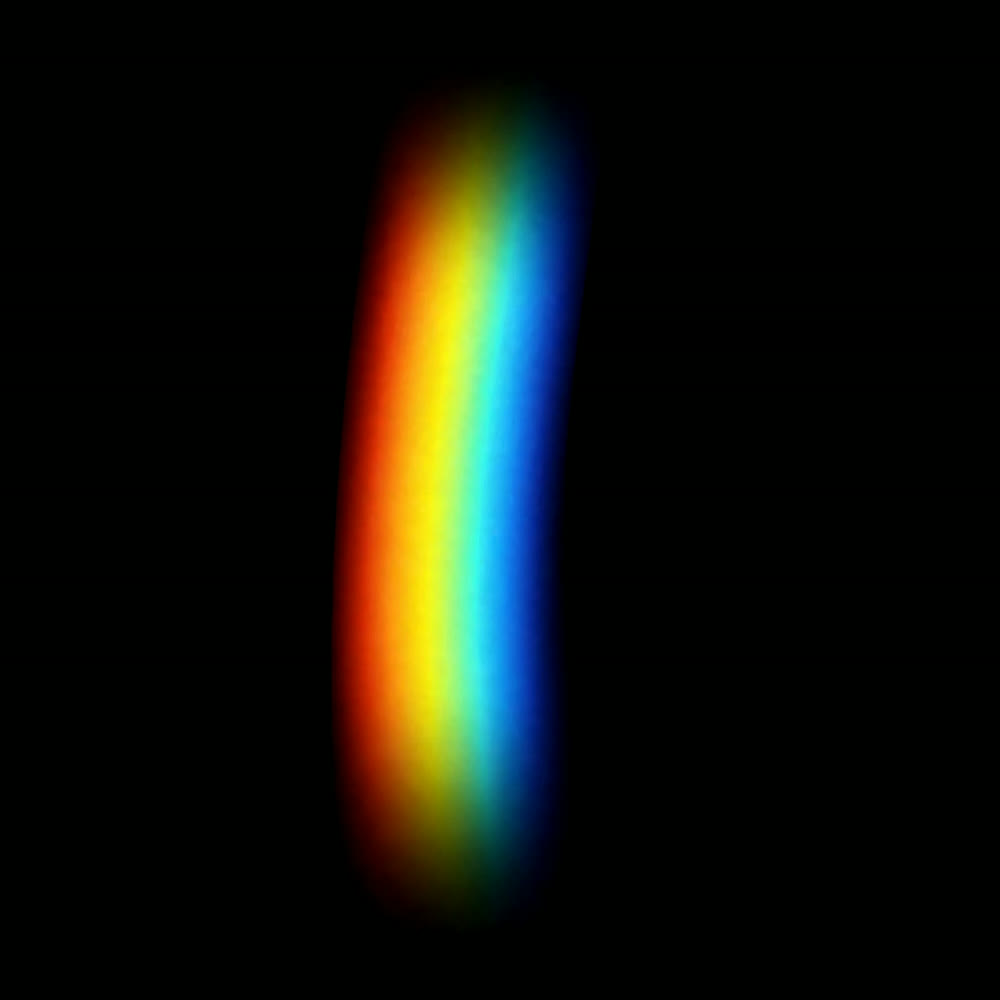
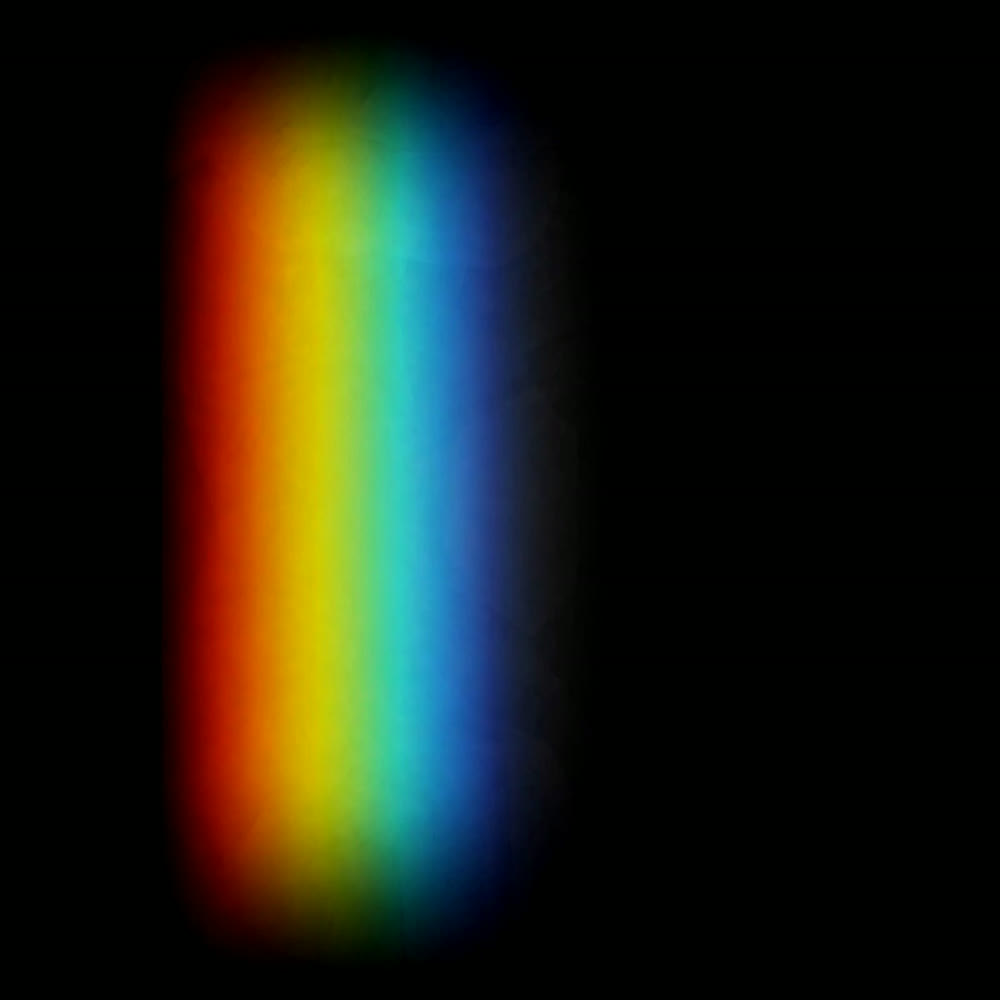
Écouter : halo en bande arc-en-ciel droite, décalé vers la droite

diff --git a/index.html b/index.html
@@ -273,7 +273,7 @@ section{position:relative}
   -webkit-mask-composite:source-in;
   mask-image:linear-gradient(to right,transparent 0,#000 12%,#000 88%,transparent 100%),linear-gradient(to bottom,transparent 0,#000 14%,#000 86%,transparent 100%);
   mask-composite:intersect}
-.listen-halo{position:absolute;z-index:0;right:-5%;top:36%;height:min(70%,540px);width:auto;max-width:none;transform:translateY(-50%);pointer-events:none;mix-blend-mode:screen;opacity:.8;filter:saturate(1.3) brightness(1.1) blur(1px);
+.listen-halo{position:absolute;z-index:0;right:-12%;top:36%;height:min(70%,540px);width:auto;max-width:none;transform:translateY(-50%);pointer-events:none;mix-blend-mode:screen;opacity:.8;filter:saturate(1.3) brightness(1.1) blur(1px);
   -webkit-mask-image:radial-gradient(closest-side,#000 72%,transparent);mask-image:radial-gradient(closest-side,#000 72%,transparent)}
 @media (max-width:959px){.listen-halo{display:none}.video .play{width:56px;height:56px;top:78%}}
 </style>
